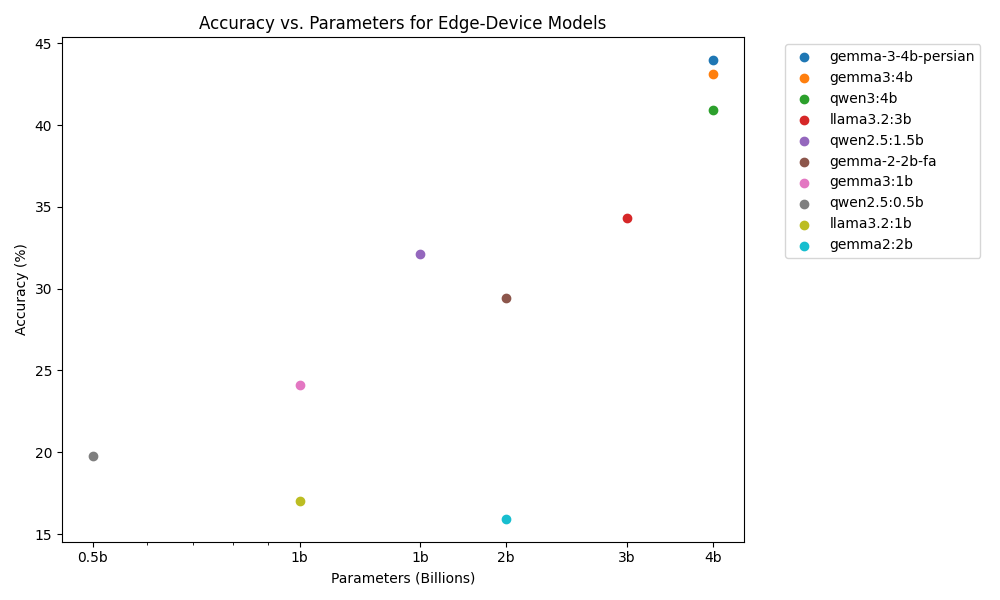
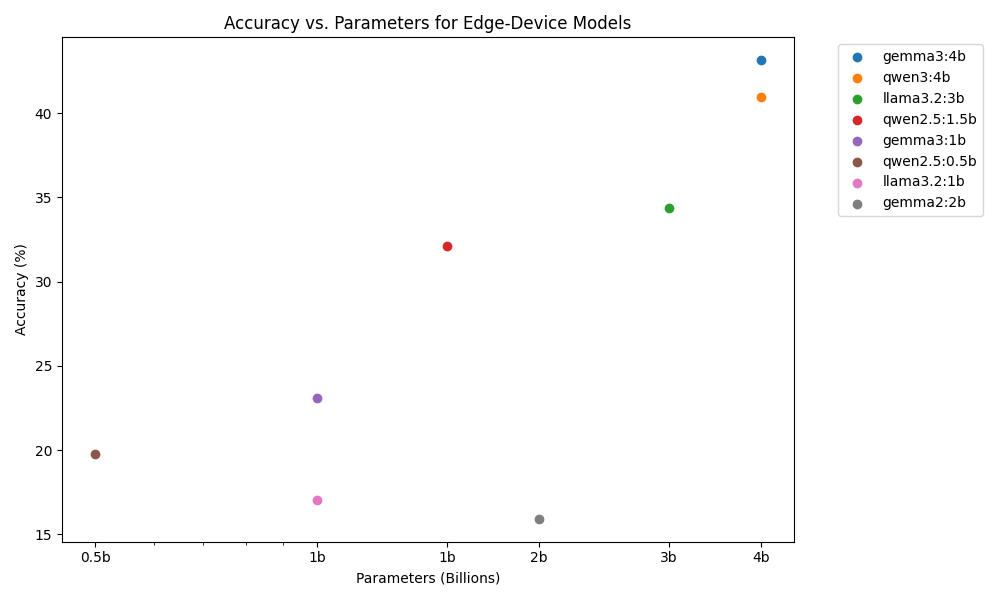
update

diff --git a/run_eval_lmstudio.py b/run_eval_lmstudio.py
@@ -1,0 +1,140 @@
+import os
+import time
+import csv
+import re
+import json
+from openai import OpenAI, APITimeoutError, APIError, APIConnectionError
+from dotenv import load_dotenv
+from concurrent.futures import ThreadPoolExecutor, TimeoutError
+
+load_dotenv()
+
+client = OpenAI(
+    api_key="lm-studio", #os.environ.get("OPENAI_API_KEY"),
+    base_url="http://localhost:1234/v1",
+    timeout=60,
+)
+
+def get_model_response(model_name, messages):
+    chat_completion = client.chat.completions.create(
+        messages=messages,
+        model=model_name,
+    )
+    return chat_completion
+
+def evaluate_model():
+    model_name = "gemma3-persian"
+    print(f"Evaluating model: {model_name}")
+
+    questions = []
+    correct_answers = []
+    with open('cleaned_llm_persian_eval.csv', 'r', encoding='utf-8') as f:
+        reader = csv.DictReader(f)
+        for row in reader:
+            questions.append(row['question'])
+            correct_answers.append(row['answer'])
+    
+    correct_count = 0
+    total = len(questions)
+    total_latency = 0
+    
+    print(f"Running evaluation on {total} questions...")
+    
+    for i, (question, correct) in enumerate(zip(questions, correct_answers)):
+        messages = [
+            {'role': 'system', 'content': 'شما یک دستیار هوشمند هستید که به سوالات چند گزینهای پاسخ میدهد. شما باید فقط و فقط با یک حرف انگلیسی (A یا B یا C یا D) پاسخ دهید. هیچ توضیح اضافی یا متن دیگری قابل قبول نیست. فقط یک حرف.'},
+            {'role': 'user', 'content': question}
+        ]
+        response = None
+        error_occurred = False
+        latency = 0
+        retry_count = 0
+        max_retries = 30
+        base_delay = 2
+        
+        while response is None and retry_count < max_retries:
+            start_time = time.time()
+            try:
+                with ThreadPoolExecutor(max_workers=1) as executor:
+                    future = executor.submit(get_model_response, model_name, messages)
+                    response = future.result(timeout=60) # Increased timeout for OpenAI
+            except TimeoutError:
+                end_time = time.time()
+                latency = end_time - start_time
+                retry_count += 1
+                delay = base_delay * (2 ** (retry_count - 1))
+                print(f"Q{i+1}: timed out after {latency:.2f} seconds. Retry {retry_count}/{max_retries} in {delay} seconds...")
+                if retry_count < max_retries:
+                    time.sleep(delay)
+            except APIConnectionError as e:
+                end_time = time.time()
+                latency = end_time - start_time
+                retry_count += 1
+                delay = base_delay * (2 ** (retry_count - 1))
+                print(f"Q{i+1}: API Connection Error. Retry {retry_count}/{max_retries} in {delay} seconds...")
+                if retry_count < max_retries:
+                    time.sleep(delay)
+            except (APITimeoutError, APIError) as e:
+                end_time = time.time()
+                latency = end_time - start_time
+                print(f"Q{i+1}: API Error ({type(e).__name__}). Marking as failed and skipping.")
+                error_occurred = True
+                break
+        
+        # If we exhausted all retries without success
+        if response is None and not error_occurred:
+            end_time = time.time()
+            latency = end_time - start_time
+            print(f"Q{i+1}: Failed after {max_retries} retries. Marking as failed and skipping.")
+            error_occurred = True
+        
+        if error_occurred:
+            total_latency += latency
+            print(f"Q{i+1}: Model answered Error, Correct: {correct} - ✗ ({latency:.2f}s)")
+            continue
+
+        end_time = time.time()
+        latency = end_time - start_time
+        total_latency += latency
+        
+        model_response = response.choices[0].message.content
+        
+        # Check if model_response is None to avoid TypeError
+        if model_response is None:
+            model_answer = "Unknown"
+        else:
+            match = re.search(r'(?:^|\s)([ABCD])(?:\s|$|\.|\,|\))', model_response)
+            model_answer = match.group(1) if match else "Unknown"
+        
+        is_correct = model_answer == correct
+        if is_correct:
+            correct_count += 1
+            
+        print(f"Q{i+1}: Model answered {model_answer}, Correct: {correct} - {'✓' if is_correct else '✗'} ({latency:.2f}s)")
+        
+    accuracy = (correct_count / total) * 100 if total > 0 else 0
+    avg_latency = total_latency / total if total > 0 else 0
+    print(f"\nEvaluation complete. Accuracy: {accuracy:.2f}% ({correct_count}/{total})")
+    print(f"Average latency: {avg_latency:.2f}s, Total latency: {total_latency:.2f}s")
+    
+    new_result = {
+        "model": model_name,
+        "accuracy": f"{accuracy:.2f}%",
+        "total_questions": total,
+        "correct_answers": correct_count,
+        "avg_latency": f"{avg_latency:.2f}s",
+        "total_latency": f"{total_latency:.2f}s"
+    }
+    
+    try:
+        with open('evaluation_results.json', 'r', encoding='utf-8') as json_file:
+            results = json.load(json_file)
+    except FileNotFoundError:
+        results = []
+
+    results.append(new_result)
+    
+    with open('evaluation_results.json', 'w', encoding='utf-8') as json_file:
+        json.dump(results, json_file, ensure_ascii=False, indent=4)
+
+evaluate_model()
